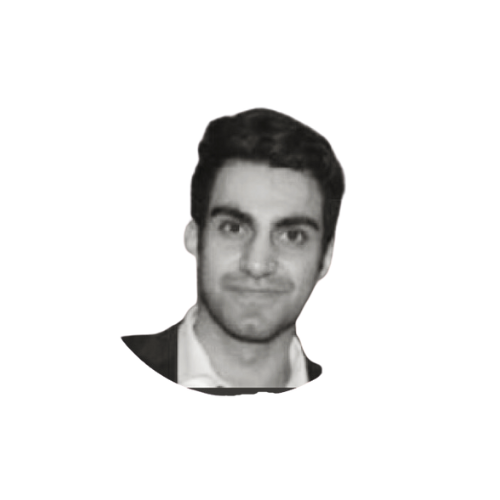
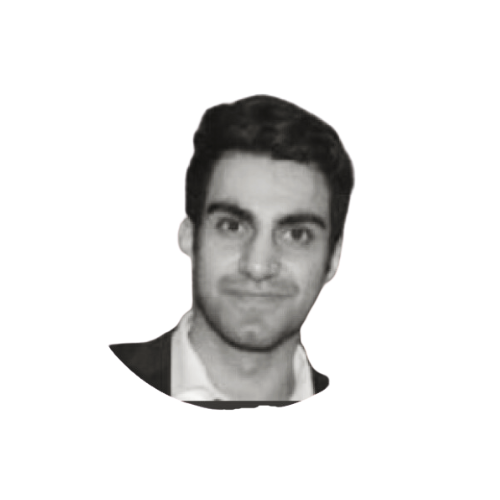
Changes

Changed region(s): [[0.21, 0.18, 0.72, 0.84]]

diff --git a/src/pages/AboutUs.tsx b/src/pages/AboutUs.tsx
@@ -15,7 +15,8 @@ const teamMembers = [{
   role: "Practice Director",
   image: "/lovable-uploads/hayder-profile.png",
   bio: "With over 10 years of industry experience across major infrastructure and residential projects, Hayder brings strategic leadership and technical excellence to every project, ensuring the highest standards of structural engineering delivery.",
-  email: "hayder@alemara.co.uk"
+  email: "hayder@alemara.co.uk",
+  imageScale: 120
 }, {
   name: "Hassanien",
   role: "Practice Manager",
@@ -69,9 +70,10 @@ const teamMembers = [{
 }, {
   name: "Zoë", 
   role: "Partnerships Manager",
-  image: "/lovable-uploads/366ed2ae-8d3f-4bd9-a291-75d5a6d2f1ad.png",
+  image: "/lovable-uploads/zoe-profile.png",
   bio: "Zoë drives our marketing initiatives and brand development, ensuring our engineering expertise reaches the right clients through strategic communication and relationship building.",
-  email: "zoe@alemara.co.uk"
+  email: "zoe@alemara.co.uk",
+  imageScale: 140
 }, {
   name: "Sandhya",
   role: "Structural Engineer",
